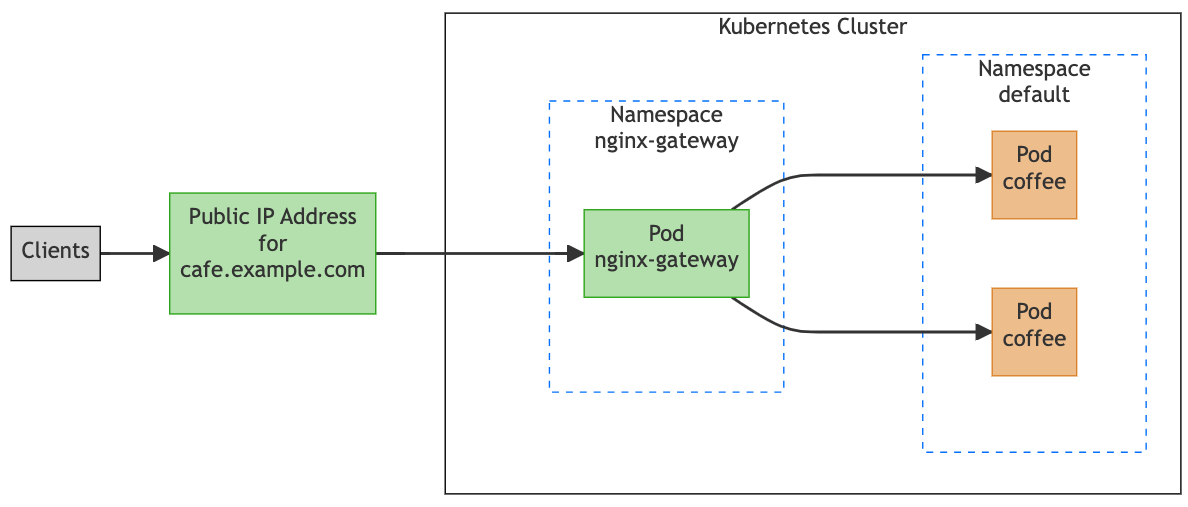
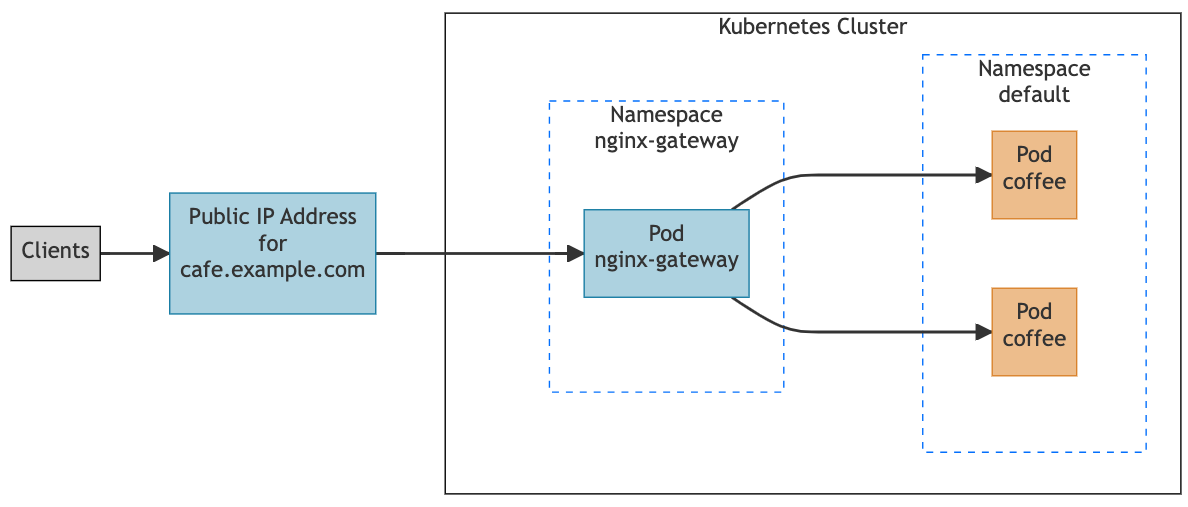
fix: update colorbind image , bump theme

Changed region(s): [[0.1246, 0.355, 0.3426, 0.6213], [0.4672, 0.4142, 0.654, 0.5917]]

diff --git a/site/content/how-to/traffic-management/routing-traffic-to-your-app.md b/site/content/how-to/traffic-management/routing-traffic-to-your-app.md
@@ -109,7 +109,7 @@ Once NGINX Gateway Fabric processes the **cafe** gateway and **coffee** HTTPRout
 
 The **coffee** service is omitted from the diagram above because the NGINX Gateway Fabric routes directly to the pods that the **coffee** service targets.
 
-{{< note >}}In the diagrams above, all resources that are the responsibility of the cluster operator are shown in green. The orange resources are the responsibility of the application developers. 
+{{< note >}}In the diagrams above, all resources that are the responsibility of the cluster operator are shown in blue. The orange resources are the responsibility of the application developers. 
 
 See the [roles and personas](https://gateway-api.sigs.k8s.io/concepts/roles-and-personas/#roles-and-personas_1) Gateway API document for more information on these roles.{{< /note >}}
 
